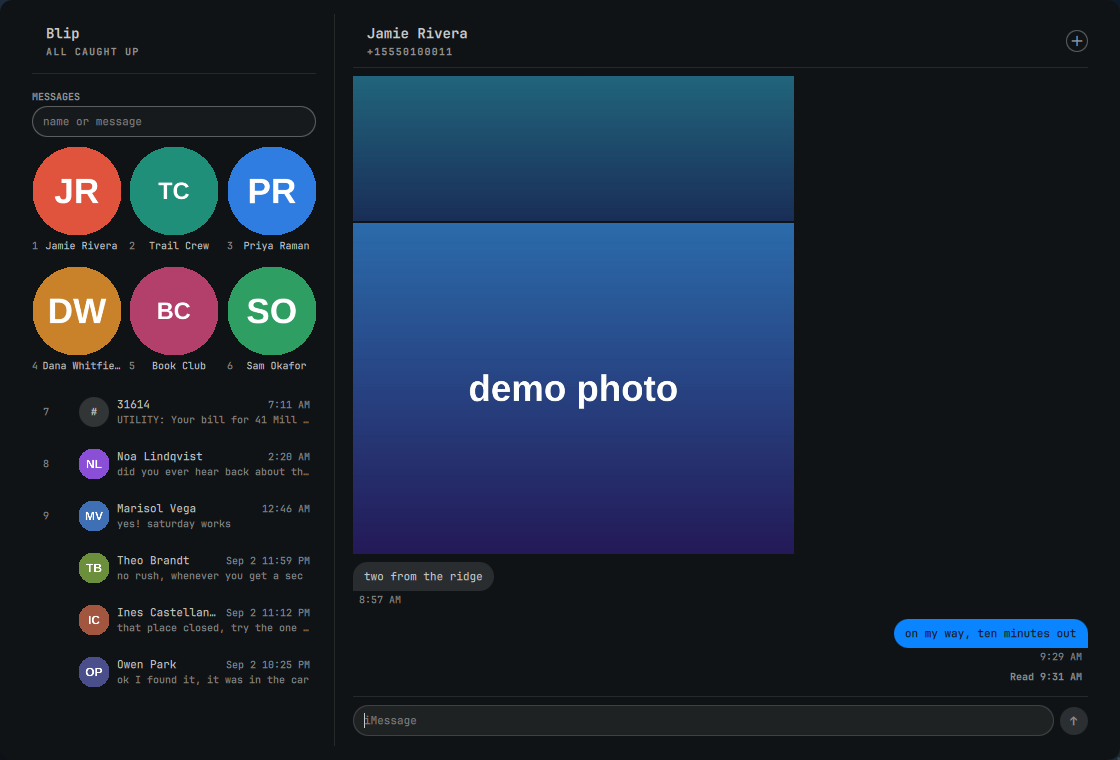
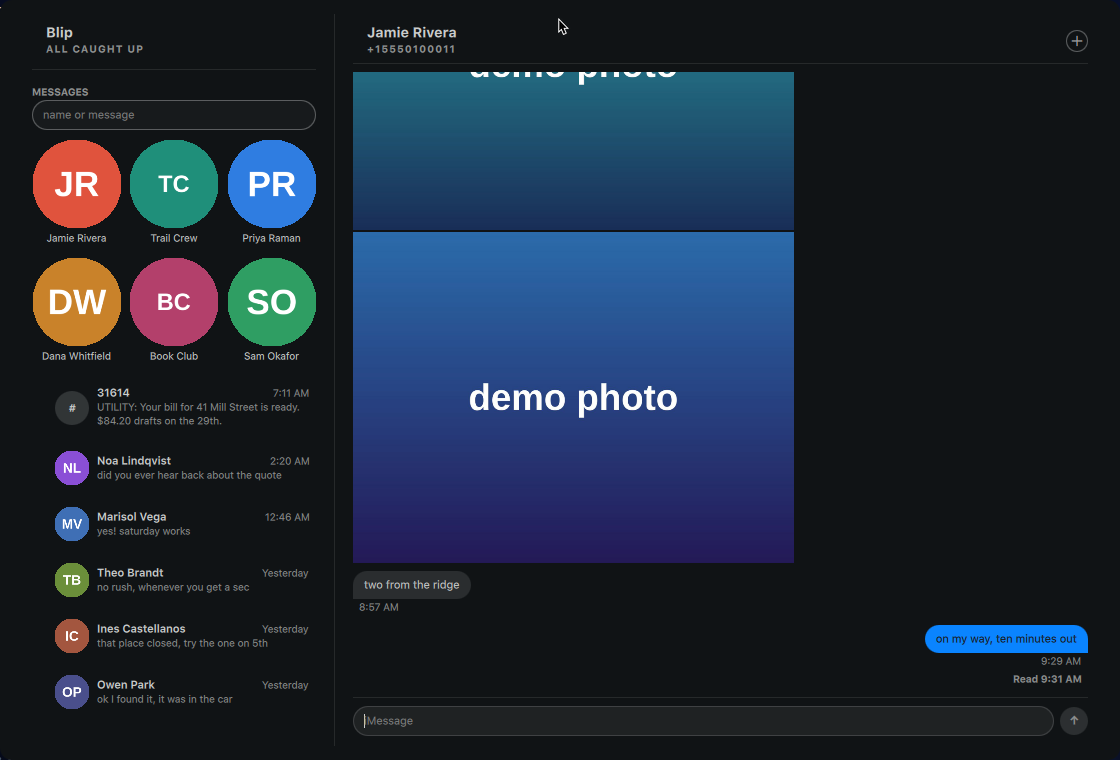
demo harness: assign themeFont, not the now-readonly fontFamily
WHAT: the SF Pro change (3c7c181) split BlipView's font property — `themeFont`
is what a host injects, `fontFamily` is derived and READONLY. I updated
Panel.qml and BlipWindow.qml and missed scripts/demo/DemoShell.qml, which was
still assigning `fontFamily:` — an assignment to a readonly property, i.e. the
screenshot harness would have failed to load.
Found on a session resume, from the file list rather than from a test, because
nothing in `bun test` runs the harness. Worth noting: a contributor already
used blip-shots to render before/after images for #15, so this is shared
tooling now, not a private script.
VERIFIED by running it: 12 conversations loaded, all four docs/img/*.png
regenerated.

LR-T: blip, demo-harness, qml, fontfamily, regression
LR-D: blip
LR-K: readonly-fontfamily, demoshell-themefont
LR-R: 3c7c181

Claude-Session: https://claude.ai/code/session_01K3V19BaTrQa2HCPFYbcfTy

diff --git a/scripts/demo/DemoShell.qml b/scripts/demo/DemoShell.qml
@@ -88,7 +88,7 @@ ShellRoot {
       splitView: !win.narrow
       foreground: Color.foreground
       urgent: Color.urgent
-      fontFamily: Style.font.family
+      themeFont: Style.font.family
     }
 
     }
